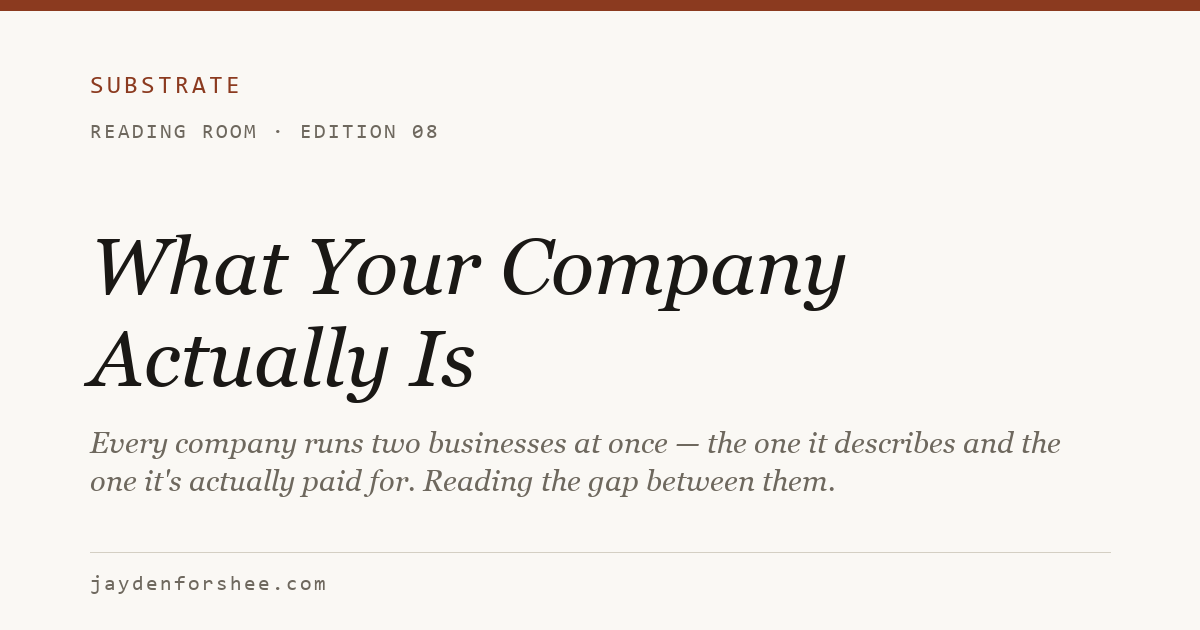
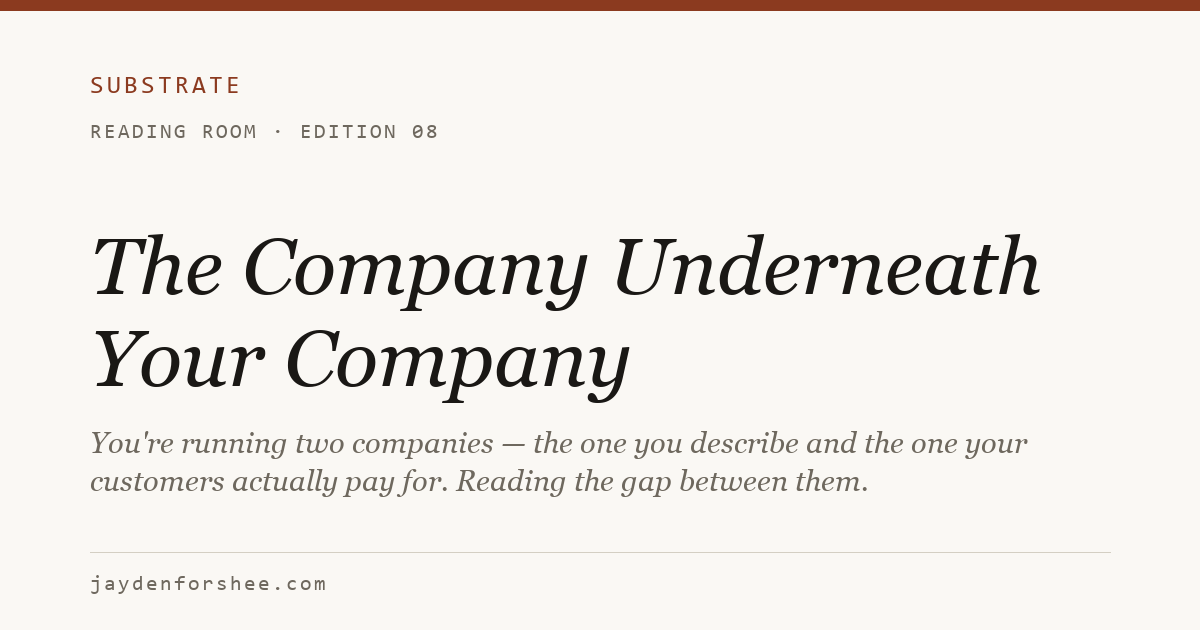
Edition 08: retitle 'The Company Underneath Your Company' + sharper hook (rebuild essays, OG, homepage)

Changed region(s): [[0.0617, 0.3619, 0.8633, 0.6635], [0.0617, 0.6937, 0.8942, 0.7841]]

diff --git a/essays/08-what-your-company-actually-is.html b/essays/08-what-your-company-actually-is.html
@@ -11,20 +11,20 @@
 <link rel="icon" type="image/png" sizes="32x32" href="/favicon-32.png" />
 <link rel="apple-touch-icon" href="/apple-touch-icon.png" />
 <link rel="alternate" type="application/rss+xml" title="Substrate — Reading Room" href="/feed.xml" />
-<title>What Your Company Actually Is — Substrate</title>
-<meta name="description" content="Every company runs two businesses at once — the one it describes and the one it's actually paid for. Reading the gap between them. Reading Room, Edition 08." />
+<title>The Company Underneath Your Company — Substrate</title>
+<meta name="description" content="You're running two companies — the one you describe and the one your customers actually pay for. Reading the gap between them. Reading Room, Edition 08." />
 <link rel="canonical" href="https://www.jaydenforshee.com/essays/08-what-your-company-actually-is.html" />
 <meta property="og:type" content="article" />
 <meta property="og:site_name" content="Substrate" />
-<meta property="og:title" content="What Your Company Actually Is — Substrate" />
-<meta property="og:description" content="Every company runs two businesses at once — the one it describes and the one it's actually paid for. Reading the gap between them." />
+<meta property="og:title" content="The Company Underneath Your Company — Substrate" />
+<meta property="og:description" content="You're running two companies — the one you describe and the one your customers actually pay for. Reading the gap between them." />
 <meta property="og:url" content="https://www.jaydenforshee.com/essays/08-what-your-company-actually-is.html" />
 <meta property="og:image" content="https://www.jaydenforshee.com/og/08-what-your-company-actually-is.png" />
 <meta property="og:image:width" content="1200" />
 <meta property="og:image:height" content="630" />
 <meta name="twitter:card" content="summary_large_image" />
-<meta name="twitter:title" content="What Your Company Actually Is — Substrate" />
-<meta name="twitter:description" content="Every company runs two businesses at once — the one it describes and the one it's actually paid for. Reading the gap between them." />
+<meta name="twitter:title" content="The Company Underneath Your Company — Substrate" />
+<meta name="twitter:description" content="You're running two companies — the one you describe and the one your customers actually pay for. Reading the gap between them." />
 <meta name="twitter:image" content="https://www.jaydenforshee.com/og/08-what-your-company-actually-is.png" />
 <link rel="preconnect" href="https://fonts.googleapis.com">
 <link rel="preconnect" href="https://fonts.gstatic.com" crossorigin>
@@ -383,19 +383,17 @@ article p code, article li code {
       <span class="chip">Edition 08</span>
       <span class="chip">2026</span>
     </div>
-    <h1 class="essay-title">What Your Company Actually Is</h1>
-    <p class="essay-subtitle">Every company runs two businesses at once — the one it describes and the one it's actually paid for. Reading the gap between them.</p>
+    <h1 class="essay-title">The Company Underneath Your Company</h1>
+    <p class="essay-subtitle">You're running two companies — the one you describe and the one your customers actually pay for. Reading the gap between them.</p>
     <div class="essay-divider"></div>
 
-    <p>A fleet-safety company I looked at sells, on its website, <em>fewer accidents</em>. Safer drivers. Peace of mind. Lower insurance premiums. That is the story, and it is a good one — the founder believes every word, the deck closes on it, the sales team leads with it.</p>
+    <p>You are running two companies.</p>
 
-    <p>Then you follow the money instead of the pitch.</p>
+    <p>One is the company you'd describe if I asked — the one on your site, in your deck, in the story you tell new hires. The other is the company your customers actually pay for. They're not the same. They drift further apart every year you operate. And you almost certainly can't see the second one — because you're standing inside the first.</p>
 
-    <p>You look at what customers actually renew for. You read the churn interviews. You watch which feature, when you threaten to remove it, makes a calm operations director suddenly very alert. And a different company comes into focus. The thing they will not give up is the dashcam footage — not because it prevents the crash, but because when the crash happens anyway and the plaintiff's lawyer shows up, the footage is the evidence that <em>their</em> driver wasn't at fault. A single exonerating clip is worth more than a year of subscription. They are not buying safer drivers. They are buying <strong>litigation defense</strong>.</p>
+    <p>A fleet-safety company sells <em>fewer accidents</em>. Follow the renewals, though, and a different business appears: customers stay for the dashcam footage — the clip that proves <em>their</em> driver wasn't at fault when the lawyer shows up. One exonerating video is worth more than a year of subscription. They're not buying safer drivers. They're buying <strong>litigation defense</strong>. Same company. Two businesses. Only one is on the marketing site.</p>
 
-    <p>Same company. Two completely different businesses. One is written on the marketing site. The other is the one customers actually pay for. And the founder — sincere, smart, close to the work — cannot see the second one, because he is standing inside the first.</p>
-
-    <p>Almost every company has this gap. It is not a marketing problem, and it is not a lie. It is a structural condition, it forms predictably, it has a cost that compounds, and right now — as everyone races to install AI on top of it — it is about to get a great deal more expensive. So it is worth learning to read.</p>
+    <p>That gap is the most expensive thing you can't see. It forms predictably, compounds quietly, and — as everyone races to bolt AI onto the company they describe — it's about to get far more expensive. So it's worth learning to read.</p>
 
     <h2>The stated company and the operating company</h2>
 

diff --git a/essays/01-the-ontology-of-a-business.html b/essays/01-the-ontology-of-a-business.html
@@ -509,8 +509,8 @@ article p code, article li code {
         <span class="more-reading-item-meta">Edition 07 · The setup people pay $20,000–$200,000 for, built with nothing but folders — the whole blueprint, step by step.</span>
       </li>
       <li class="more-reading-item">
-        <a href="08-what-your-company-actually-is.html">What Your Company Actually Is</a>
-        <span class="more-reading-item-meta">Edition 08 · Every company runs two businesses at once — the one it describes and the one it's actually paid for. Reading the gap between them.</span>
+        <a href="08-what-your-company-actually-is.html">The Company Underneath Your Company</a>
+        <span class="more-reading-item-meta">Edition 08 · You're running two companies — the one you describe and the one your customers actually pay for. Reading the gap between them.</span>
       </li>
       </ul>
     </div>

diff --git a/essays/02-why-folder-structure-is-architecture.html b/essays/02-why-folder-structure-is-architecture.html
@@ -517,8 +517,8 @@ article p code, article li code {
         <span class="more-reading-item-meta">Edition 07 · The setup people pay $20,000–$200,000 for, built with nothing but folders — the whole blueprint, step by step.</span>
       </li>
       <li class="more-reading-item">
-        <a href="08-what-your-company-actually-is.html">What Your Company Actually Is</a>
-        <span class="more-reading-item-meta">Edition 08 · Every company runs two businesses at once — the one it describes and the one it's actually paid for. Reading the gap between them.</span>
+        <a href="08-what-your-company-actually-is.html">The Company Underneath Your Company</a>
+        <span class="more-reading-item-meta">Edition 08 · You're running two companies — the one you describe and the one your customers actually pay for. Reading the gap between them.</span>
       </li>
       </ul>
     </div>

diff --git a/essays/03-strategy-is-downstream.html b/essays/03-strategy-is-downstream.html
@@ -513,8 +513,8 @@ article p code, article li code {
         <span class="more-reading-item-meta">Edition 07 · The setup people pay $20,000–$200,000 for, built with nothing but folders — the whole blueprint, step by step.</span>
       </li>
       <li class="more-reading-item">
-        <a href="08-what-your-company-actually-is.html">What Your Company Actually Is</a>
-        <span class="more-reading-item-meta">Edition 08 · Every company runs two businesses at once — the one it describes and the one it's actually paid for. Reading the gap between them.</span>
+        <a href="08-what-your-company-actually-is.html">The Company Underneath Your Company</a>
+        <span class="more-reading-item-meta">Edition 08 · You're running two companies — the one you describe and the one your customers actually pay for. Reading the gap between them.</span>
       </li>
       </ul>
     </div>

diff --git a/essays/04-field-notes-on-duty.html b/essays/04-field-notes-on-duty.html
@@ -485,8 +485,8 @@ article p code, article li code {
         <span class="more-reading-item-meta">Edition 07 · The setup people pay $20,000–$200,000 for, built with nothing but folders — the whole blueprint, step by step.</span>
       </li>
       <li class="more-reading-item">
-        <a href="08-what-your-company-actually-is.html">What Your Company Actually Is</a>
-        <span class="more-reading-item-meta">Edition 08 · Every company runs two businesses at once — the one it describes and the one it's actually paid for. Reading the gap between them.</span>
+        <a href="08-what-your-company-actually-is.html">The Company Underneath Your Company</a>
+        <span class="more-reading-item-meta">Edition 08 · You're running two companies — the one you describe and the one your customers actually pay for. Reading the gap between them.</span>
       </li>
       </ul>
     </div>

diff --git a/essays/05-the-three-layers-of-a-business.html b/essays/05-the-three-layers-of-a-business.html
@@ -495,8 +495,8 @@ article p code, article li code {
         <span class="more-reading-item-meta">Edition 07 · The setup people pay $20,000–$200,000 for, built with nothing but folders — the whole blueprint, step by step.</span>
       </li>
       <li class="more-reading-item">
-        <a href="08-what-your-company-actually-is.html">What Your Company Actually Is</a>
-        <span class="more-reading-item-meta">Edition 08 · Every company runs two businesses at once — the one it describes and the one it's actually paid for. Reading the gap between them.</span>
+        <a href="08-what-your-company-actually-is.html">The Company Underneath Your Company</a>
+        <span class="more-reading-item-meta">Edition 08 · You're running two companies — the one you describe and the one your customers actually pay for. Reading the gap between them.</span>
       </li>
       </ul>
     </div>

diff --git a/essays/06-the-layer-above-the-architecture.html b/essays/06-the-layer-above-the-architecture.html
@@ -497,8 +497,8 @@ article p code, article li code {
         <span class="more-reading-item-meta">Edition 07 · The setup people pay $20,000–$200,000 for, built with nothing but folders — the whole blueprint, step by step.</span>
       </li>
       <li class="more-reading-item">
-        <a href="08-what-your-company-actually-is.html">What Your Company Actually Is</a>
-        <span class="more-reading-item-meta">Edition 08 · Every company runs two businesses at once — the one it describes and the one it's actually paid for. Reading the gap between them.</span>
+        <a href="08-what-your-company-actually-is.html">The Company Underneath Your Company</a>
+        <span class="more-reading-item-meta">Edition 08 · You're running two companies — the one you describe and the one your customers actually pay for. Reading the gap between them.</span>
       </li>
       </ul>
     </div>

diff --git a/essays/07-how-to-build-an-ai-system-for-free.html b/essays/07-how-to-build-an-ai-system-for-free.html
@@ -655,8 +655,8 @@ should have access to but doesn't need to act on directly.]</code></pre>
         <span class="more-reading-item-meta">Edition 06 · On the ontological audit — the layer that has to be read before any AI architecture goes in.</span>
       </li>
       <li class="more-reading-item">
-        <a href="08-what-your-company-actually-is.html">What Your Company Actually Is</a>
-        <span class="more-reading-item-meta">Edition 08 · Every company runs two businesses at once — the one it describes and the one it's actually paid for. Reading the gap between them.</span>
+        <a href="08-what-your-company-actually-is.html">The Company Underneath Your Company</a>
+        <span class="more-reading-item-meta">Edition 08 · You're running two companies — the one you describe and the one your customers actually pay for. Reading the gap between them.</span>
       </li>
       </ul>
     </div>

diff --git a/index.html b/index.html
@@ -942,8 +942,8 @@
         <div class="more-reading-eyebrow">— Essays</div>
         <ul class="more-reading-list">
           <li class="more-reading-item">
-            <a href="essays/08-what-your-company-actually-is.html">What Your Company Actually Is</a>
-            <span class="more-reading-item-meta">Edition 08 · 2026 · Every company runs two businesses at once — the one it describes and the one it's actually paid for. Reading the gap between them.</span>
+            <a href="essays/08-what-your-company-actually-is.html">The Company Underneath Your Company</a>
+            <span class="more-reading-item-meta">Edition 08 · 2026 · You're running two companies — the one you describe and the one your customers actually pay for. Reading the gap between them.</span>
           </li>
           <li class="more-reading-item">
             <a href="essays/07-how-to-build-an-ai-system-for-free.html">How to Build an AI System for Free — Using Nothing but Folders</a>

diff --git a/build-essays.py b/build-essays.py
@@ -62,8 +62,8 @@ ESSAYS = [
     {
         "slug": "08-what-your-company-actually-is",
         "edition": "08",
-        "title": "What Your Company Actually Is",
-        "subtitle": "Every company runs two businesses at once — the one it describes and the one it's actually paid for. Reading the gap between them.",
+        "title": "The Company Underneath Your Company",
+        "subtitle": "You're running two companies — the one you describe and the one your customers actually pay for. Reading the gap between them.",
         "date": "2026",
     },
 ]

diff --git a/writing/08-what-your-company-actually-is.md b/writing/08-what-your-company-actually-is.md
@@ -1,20 +1,18 @@
-# What Your Company Actually Is
+# The Company Underneath Your Company
 
-*Every company runs two businesses at once — the one it describes, and the one it's actually paid for. The distance between them is the most expensive thing you can't see.*
+*You're running two companies — the one you describe, and the one your customers actually pay for. The distance between them is the most expensive thing you can't see.*
 
 **Substrate · Reading Room · Edition 08**
 
 ---
 
-A fleet-safety company I looked at sells, on its website, *fewer accidents*. Safer drivers. Peace of mind. Lower insurance premiums. That is the story, and it is a good one — the founder believes every word, the deck closes on it, the sales team leads with it.
+You are running two companies.
 
-Then you follow the money instead of the pitch.
+One is the company you'd describe if I asked — the one on your site, in your deck, in the story you tell new hires. The other is the company your customers actually pay for. They're not the same. They drift further apart every year you operate. And you almost certainly can't see the second one — because you're standing inside the first.
 
-You look at what customers actually renew for. You read the churn interviews. You watch which feature, when you threaten to remove it, makes a calm operations director suddenly very alert. And a different company comes into focus. The thing they will not give up is the dashcam footage — not because it prevents the crash, but because when the crash happens anyway and the plaintiff's lawyer shows up, the footage is the evidence that *their* driver wasn't at fault. A single exonerating clip is worth more than a year of subscription. They are not buying safer drivers. They are buying **litigation defense**.
+A fleet-safety company sells *fewer accidents*. Follow the renewals, though, and a different business appears: customers stay for the dashcam footage — the clip that proves *their* driver wasn't at fault when the lawyer shows up. One exonerating video is worth more than a year of subscription. They're not buying safer drivers. They're buying **litigation defense**. Same company. Two businesses. Only one is on the marketing site.
 
-Same company. Two completely different businesses. One is written on the marketing site. The other is the one customers actually pay for. And the founder — sincere, smart, close to the work — cannot see the second one, because he is standing inside the first.
-
-Almost every company has this gap. It is not a marketing problem, and it is not a lie. It is a structural condition, it forms predictably, it has a cost that compounds, and right now — as everyone races to install AI on top of it — it is about to get a great deal more expensive. So it is worth learning to read.
+That gap is the most expensive thing you can't see. It forms predictably, compounds quietly, and — as everyone races to bolt AI onto the company they describe — it's about to get far more expensive. So it's worth learning to read.
 
 ## The stated company and the operating company
 